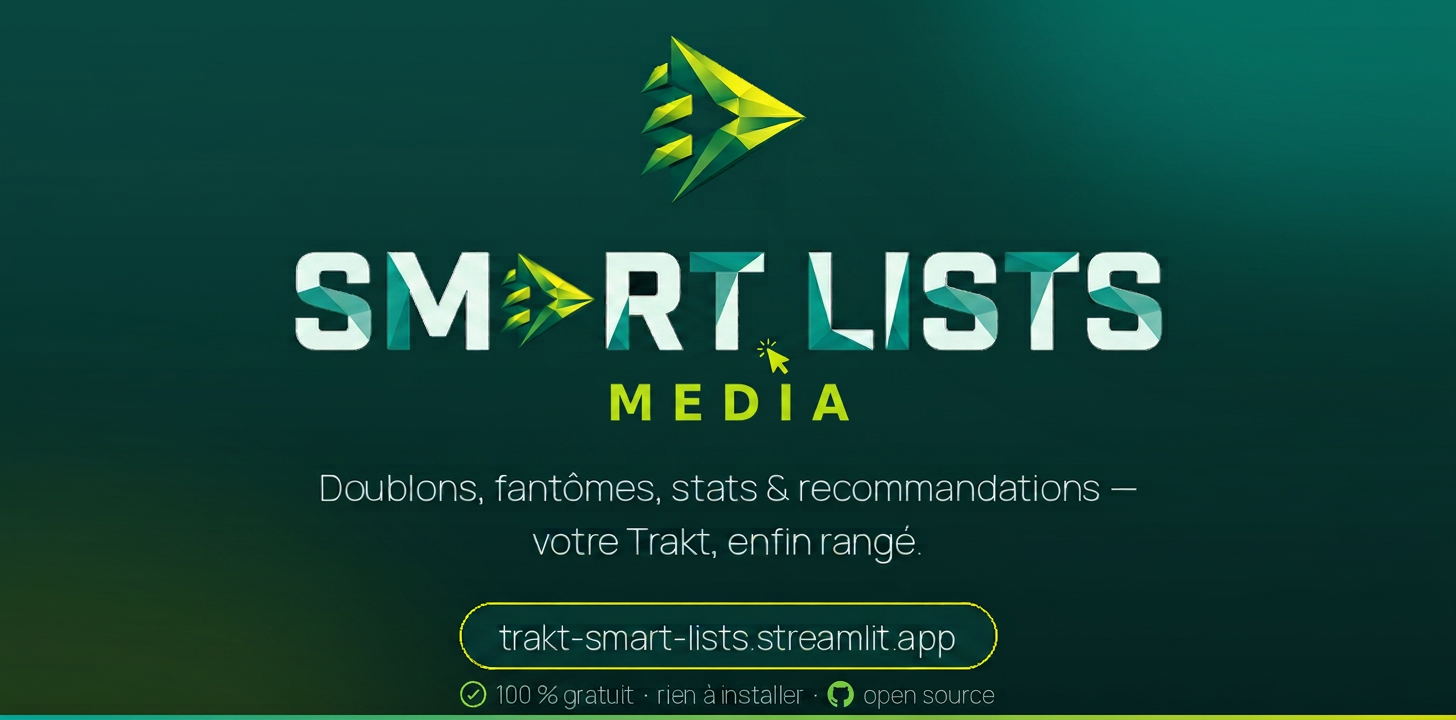
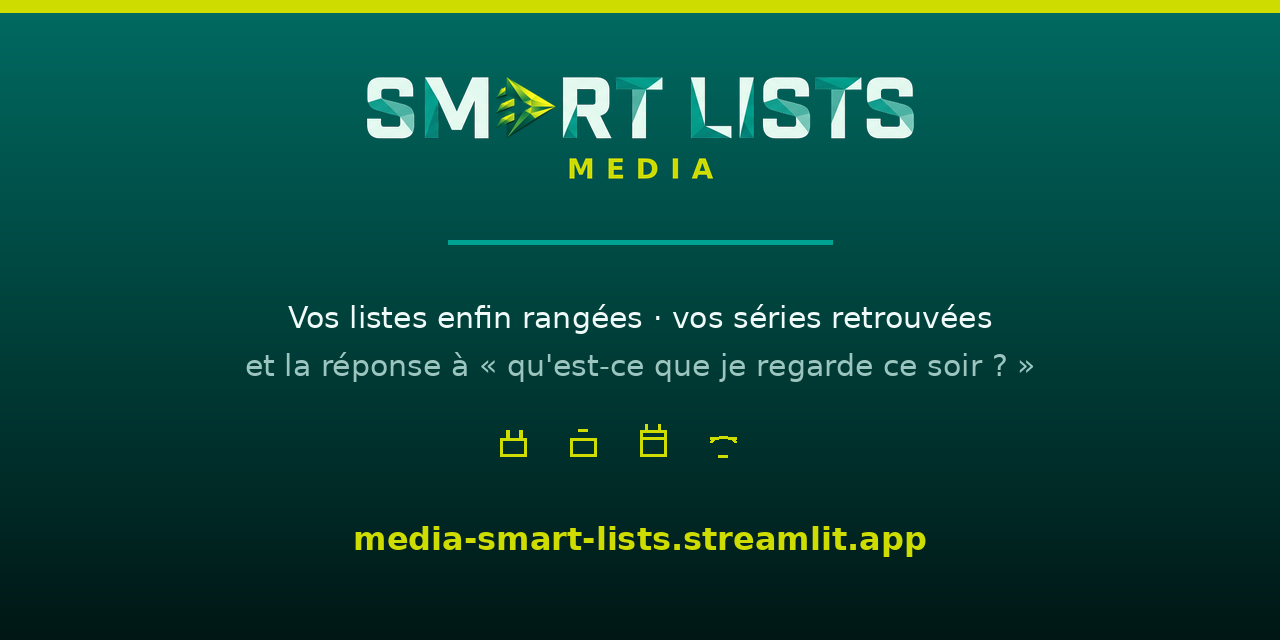
Add files via upload

diff --git a/guide-alkodiques.md b/guide-alkodiques.md
@@ -1,83 +1,97 @@
-# 🧹 Media Smart Lists : la relève de Trakt Smart Lists, pour MDBList (et votre ZIP Trakt)
+# 🧹 Media Smart Lists : la suite de mon petit outil maison, maintenant pour MDBList (et votre ZIP Trakt) !
 
-> **Article de communauté — Alkodiques** — suite de l'article
-> [« Trakt Smart Lists : l'outil maison qui remet de l'ordre dans vos listes Trakt ! »](https://lesalkodiques.com/portail/space/kodi/post/trakt-smart-lists-l-outil-maison-qui)
-> (voir plus bas pour la situation de l'ancienne app).
+Salut à tous ! 👋
 
-## ⚠ Petite mise au point sur Trakt Smart Lists
+Vous vous souvenez peut-être de mon article sur **Trakt Smart Lists**, mon petit
+outil maison pour remettre de l'ordre dans les listes ? Eh bien, il a un
+successeur ! 🎉
 
-Vous l'avez peut-être remarqué : **Trakt Smart Lists est pour le moment en stand-by** 🕓.
+## ⏸ D'abord, une petite nouvelle sur Trakt Smart Lists
 
-Le temps que je prenne une décision définitive, sachez que la seule façon de la
-réactiver serait de passer sur un compte **Trakt VIP** — et dans ce cas, seuls
-les utilisateurs **VIP** pourraient continuer à l'utiliser. C'est un choix que
-je ne fais pas à la légère, d'où la pause.
+Pour ceux qui suivaient, **Trakt Smart Lists est pour le moment en pause** 🕓.
 
-➡ **C'est là que Media Smart Lists entre en scène** : elle reprend l'esprit de
-Trakt Smart Lists, mais en s'appuyant sur **MDBList** (connexion directe) et
-sur votre **export ZIP Trakt** (lecture locale, sans API Trakt).
+Sans rentrer dans les détails, Trakt a durci ses conditions pour les comptes
+gratuits, et la seule façon de la réactiver serait de passer sur un compte
+**Trakt VIP** (auquel cas seuls les VIP pourraient l'utiliser). C'est une
+décision que je ne prends pas à la légère… donc pour l'instant, l'app reste en
+stand-by.
 
----
+➡ Mais bonne nouvelle : je n'ai pas chômé ! J'ai créé **Media Smart Lists**,
+dans le même esprit, avec le même amour du détail — mais cette fois basée sur
+**MDBList** (connexion directe) et sur votre **export ZIP Trakt** (en local,
+sans aucune API Trakt).
 
-## 🚀 Media Smart Lists, c'est quoi ?
+## 🚀 Alors, c'est quoi Media Smart Lists ?
 
-**Media Smart Lists** est une application web **gratuite** et **open source**,
-en français, qui croise votre historique avec vos listes pour :
+**Media Smart Lists**, c'est une application web **gratuite**, **open source**,
+**en français**, qui croise votre historique avec vos listes pour vous éviter
+le grand bazar. Concrètement :
 
-- **éviter de dupliquer des contenus** dans vos listes (le même film dans 3
-  listes ? l'app vous montre où, et retire les copies en un clic, avec
-  sauvegarde et confirmation) ;
-- **faire le ménage** : contenus déjà vus encore présents (avec la distinction
-  maligne « ajouté avant d'être vu » → à retirer / « ajouté après » → conservé
-  pour un éventuel re-visionnage), doublons, et **fantômes 👻** (les entrées
-  plantées dans « Continuer à regarder ») ;
-- **répondre à « qu'est-ce que je regarde ce soir ? »** : chaque contenu est
-  **scoré sur 100 avec une explication transparente** (chaque pastille justifie
-  son influence), avec des **presets** (« Film rapide », « Soirée cinéma »,
-  « Presque finies », « Pépites confidentielles »…) et une **roulette** 🎲 ;
-- **suivre vos séries en cours** : progression, temps restant, prochain épisode,
-  rythme hebdomadaire et même une **date de fin projetée** ;
-- **statistiques** façon Trakt Smart Lists (heatmap, graphiques, ADN cinéphile,
-  studios, marathons, évolution des goûts) ;
-- **calendrier des sorties** de vos contenus (jusqu'à 1 an et demi), **61 badges**
-  à débloquer, **Wrapped annuel** en image partageable, **sauvegarde JSON**
-  restaurable et **rapport Excel** multi-onglets.
+- **Fini les doublons !** 🧹 Le même film dans trois listes ? L'app vous montre
+  exactement où, et vous pouvez le retirer **d'une liste précise ou de partout**
+  en un clic — avec une sauvegarde de sécurité et une confirmation avant chaque
+  écriture (parce que je vous respecte, moi 😄).
+
+- **Le ménage intelligent** : elle repère les contenus **déjà vus encore
+  présents** dans vos listes, avec la distinction maligne :
+  * ajouté **avant** d'être vu → à retirer (il a fait son temps) ;
+  * ajouté **après** visionnage → conservé (s'il est là malgré tout, c'est
+    peut-être que vous voulez le **revoir** 😉).
+  Et elle exorcise aussi les **fantômes 👻** — ces entrées plantées dans
+  « Continuer à regarder » qui polluent même le widget « En cours » de vos
+  Kodi à la maison !
+
+- **« Qu'est-ce que je regarde ce soir ? »** 🎯 — fini les 40 minutes de scroll !
+  L'app construit **votre profil de visionnage** (genres fétiches, durées
+  préférées, décennies, pays, studios…), puis **score chaque contenu sur 100
+  en vous expliquant pourquoi** (aucune boîte noire : chaque pastille justifie
+  son influence exacte). Et pour les indécis : des **presets** (« Film rapide »,
+  « Soirée cinéma », « Presque finies », « Pépites confidentielles »…) et une
+  **🎲 roulette** !
+
+- **Le suivi de vos séries** 📺 : progression, temps restant, prochain épisode,
+  votre **rythme** (épisodes/semaine, bilan du mois) et même une **date de fin
+  projetée** de vos séries en cours. Si, si 😅
+
+- **Et dans la hotte** 🎁 : un **calendrier des sorties** de vos contenus
+  (jusqu'à 1 an et demi !), des **statistiques** détaillées (heatmap,
+  graphiques, ADN cinéphile, marathons…), **61 badges** à débloquer, votre
+  **Wrapped annuel** en image partageable, une **sauvegarde JSON** restaurable
+  et un **rapport Excel** multi-onglets.
 
 **🚀 L'app en ligne :** [media-smart-lists.streamlit.app](https://media-smart-lists.streamlit.app)  
 **📁 Le code :** [github.com/Minijoe01/Media-Smart-Lists](https://github.com/Minijoe01/Media-Smart-Lists)
 
----
-
 ## 🔗 Deux façons de l'utiliser
 
-### 1. Connexion directe MDBList (recommandé)
+### 1. La connexion directe MDBList (recommandée) ⭐
 
 1. Cliquez sur **« Préparer la connexion MDBList »** ;
-2. autorisez avec le **code affiché** (ou le **QR code** depuis votre téléphone) ;
-3. cliquez sur **« Charger mes données MDBList »** — c'est parti.
+2. autorisez avec le **code affiché** (ou scannez le **QR code** avec votre
+   téléphone) ;
+3. cliquez sur **« Charger mes données MDBList »**… et c'est parti !
 
-Un **cache d'une heure** évite de recharger et de consommer votre quota à chaque
-visite.
+Un **cache d'une heure** évite de recharger et de consommer votre quota à
+chaque visite. Pratique, non ?
 
-### 2. Import de votre ZIP Trakt (local, lecture seule)
+### 2. Votre ZIP Trakt (local, lecture seule) 📦
 
-Vous avez encore un compte Trakt (ou un ancien export) ? Pas de souci : Trakt
-reste utilisable **via un fichier ZIP**, sans aucune API.
+Vous avez encore un compte Trakt, ou un vieil export qui traîne ? Pas de souci,
+Trakt reste utilisable **via un fichier ZIP**, sans aucune API.
 
-**Comment obtenir ce ZIP ?**
+**Comment obtenir ce ZIP ?** C'est simple :
 
-1. Rendez-vous sur [app.trakt.tv/settings/data?mode=media](https://app.trakt.tv/settings/data?mode=media) (connectez-vous) ;
+1. Allez sur [app.trakt.tv/settings/data?mode=media](https://app.trakt.tv/settings/data?mode=media) (connectez-vous) ;
 2. scrollez jusqu'à la section **« Export »** ;
-3. cliquez sur **« Exporter maintenant »** — l'export peut prendre **quelques minutes** ;
+3. cliquez sur **« Exporter maintenant »** — comptez **quelques minutes** ;
 4. téléchargez le fichier `export-trakt-*.zip` ;
-5. dans Media Smart Lists, cliquez sur **« Préparer l'import ZIP Trakt »**, déposez le ZIP, puis **« Importer et charger mes données »**.
+5. dans Media Smart Lists : **« Préparer l'import ZIP Trakt »** → déposez le
+   ZIP → **« Importer et charger mes données »**. Et voilà ! 🎉
 
 > 🔒 L'import est **100 % local et en lecture seule** : rien n'est modifié sur
-> Trakt, le ZIP n'est pas conservé. En option, si vous êtes connecté à MDBList,
-> l'app peut **enrichir** vos données ZIP avec les métadonnées MDBList
-> (genres, posters, durées, notes).
-
----
+> Trakt, le ZIP n'est pas conservé. Et si vous êtes connecté à MDBList, l'app
+> peut **enrichir** vos données ZIP avec les métadonnées MDBList (genres,
+> posters, durées, notes).
 
 ## 🔒 Côté confiance
 
@@ -87,6 +101,9 @@ reste utilisable **via un fichier ZIP**, sans aucune API.
   clics, avec aperçu, sauvegarde de sécurité et confirmation** ;
 - aucun serveur ne stocke vos données.
 
-**Envie du détail complet ?** Le [README du projet](https://github.com/Minijoe01/Media-Smart-Lists) documente chaque fonctionnalité. Et pour comprendre d'où vient tout ça, l'[article d'origine sur Trakt Smart Lists](https://lesalkodiques.com/portail/space/kodi/post/trakt-smart-lists-l-outil-maison-qui) reste disponible.
+**Envie du détail complet ?** Le [README du projet](https://github.com/Minijoe01/Media-Smart-Lists) documente chaque fonctionnalité. Et pour le contexte (et l'histoire de TV Time 😉), l'[article d'origine sur Trakt Smart Lists](https://lesalkodiques.com/portail/space/kodi/post/trakt-smart-lists-l-outil-maison-qui) reste disponible.
+
+Bref : c'est le même esprit que Trakt Smart Lists, en mieux et prêt pour
+MDBList. 🚀
 
 **Bonne analyse… et surtout : bon visionnage ! 🍿**

diff --git a/README.md b/README.md
@@ -16,7 +16,7 @@
 
 ---
 
-> 🎯 **Pour qui ?** En priorité pour les **utilisateurs MDBList**, mais aussi pour les **utilisateurs Trakt** qui veulent faire le ménage dans leurs listes : suite au renforcement des règles de Trakt (comptes gratuits), la connexion directe à Trakt n'est plus possible — **Media Smart Lists** la remplace, en lecture via votre export **ZIP Trakt** (voir plus bas comment l'obtenir).
+> 🎯 **Pour qui ?** En priorité pour les **utilisateurs MDBList**, mais aussi pour les **utilisateurs Trakt** qui veulent faire le ménage dans leurs listes : suite au renforcement des règles de Trakt (comptes gratuits), **Media Smart Lists** permet la lecture de vos données Trakt via votre export **ZIP Trakt** (voir plus bas comment l'obtenir).
 
 ## ✨ Les sources de données
 
@@ -53,7 +53,7 @@ Le cœur de l'application. À partir de votre historique, l'app construit votre 
 Les sorties futures de **vos** contenus : films à venir, premières de séries, prochains épisodes annoncés. Trois sources fusionnées (calendrier MDBList, dates déjà dans vos données, appels groupés) sur des horizons jusqu'à **1 an et demi**, avec filtres, recherche, export CSV et ICS. Un panneau « Pourquoi ce calendrier… » explique chaque résultat.
 
 ### 📊 Statistiques
-Des statistiques détaillées façon Trakt Smart Lists : **une seule série de filtres** (Période · Type · Genre) appliquée à toute la page, heatmap d'activité façon GitHub, heures par mois (triées chronologiquement), genres, répartition par heure/jour/année, ADN cinéphile, studios préférés, marathons, évolution des goûts. La vue d'ensemble en haut est explicitement « non filtrée ».
+Des statistiques détaillées : **une seule série de filtres** (Période · Type · Genre) appliquée à toute la page, heatmap d'activité façon GitHub, heures par mois (triées chronologiquement), genres, répartition par heure/jour/année, ADN cinéphile, studios préférés, marathons, évolution des goûts. La vue d'ensemble en haut est explicitement « non filtrée ».
 
 ### 🎬 Rendez-vous annuel (Wrapped)
 Votre récapitulatif annuel façon Spotify Wrapped : films, séries, épisodes, note moyenne, records, tops, genres, heures par mois — et une **image PNG 1080×1350 partageable** générée localement.
@@ -128,9 +128,7 @@ TraktZipProvider ─┘
 
 ## 📸 Captures
 
-| | |
-|---|---|
-| [Social card](docs/social_card.png) | — |
+<img src="docs/social_card.png" alt="Media Smart Lists — social card" width="760">
 
 ## 🐛 Bugs, idées, envies ?
 

diff --git a/ETAPE-41.md b/ETAPE-41.md
@@ -1,0 +1,48 @@
+# Media Smart Lists — Étape 41 : social card finale, README corrigé, article convivial
+
+## 🖼 Social card finale
+
+Régénérée entièrement avec le wordmark Media Smart Lists :
+- **aucun lien cliquable** (le pointeur de souris venait du lien qui entourait
+  l'image dans le README — il a été retiré) ;
+- **URL correcte** : media-smart-lists.streamlit.app (plus de mention Trakt) ;
+- **tagline neutre** : « Vos listes enfin rangées · vos séries retrouvées » et
+  « et la réponse à "qu'est-ce que je regarde ce soir ?" » (plus de « Votre
+  Trakt enfin rangé ») ;
+- fond dégradé vert, barre citron, icônes décoratives, comme l'ancienne carte.
+
+## 📄 README corrigé
+
+- Phrase « Pour qui » : « **Media Smart Lists** permet la lecture de vos
+  données Trakt via votre export **ZIP Trakt** (voir plus bas comment
+  l'obtenir) » ;
+- Statistiques : suppression de la mention « façon Trakt Smart Lists » ;
+- la social card s'affiche désormais sans lien cliquable.
+
+## 📰 Article Alkodiques : ton plus convivial
+
+Article réécrit avec un ton plus amical et décontracté, dans l'esprit de
+l'article d'origine de Trakt Smart Lists (tutoiement, emojis, petites
+parenthèses 😉). Le fond reste le même : présentation de Media Smart Lists,
+stand-by de Trakt Smart Lists (réactivation = compte VIP), Trakt utilisable
+via ZIP (avec la marche à suivre), connexion directe via MDBList, et les
+fonctionnalités expliquées directement.
+
+## ⚠ Rappel : suppression multiple sur GitHub
+
+La suppression multiple n'est pas possible depuis l'interface web de GitHub
+(un seul fichier à la fois via l'icône poubelle). Pour supprimer plusieurs
+fichiers d'un coup, utilisez **GitHub Desktop** (application gratuite) :
+cloner le dépôt, sélectionner plusieurs fichiers (Ctrl/Cmd + clic), clic droit
+→ Delete, commit, push. (Détails dans INSTALLATION-V41.txt.)
+
+## Installation
+
+Envoyer ces fichiers à la racine du dépôt :
+
+- `README.md` (modifié)
+- `docs/social_card.png` (régénérée)
+- `docs/guide-alkodiques.md` (réécrit)
+- `ETAPE-41.md` (NOUVEAU)
+
+Aucun changement de code (app.py inchangé). Aucun secret à modifier.
